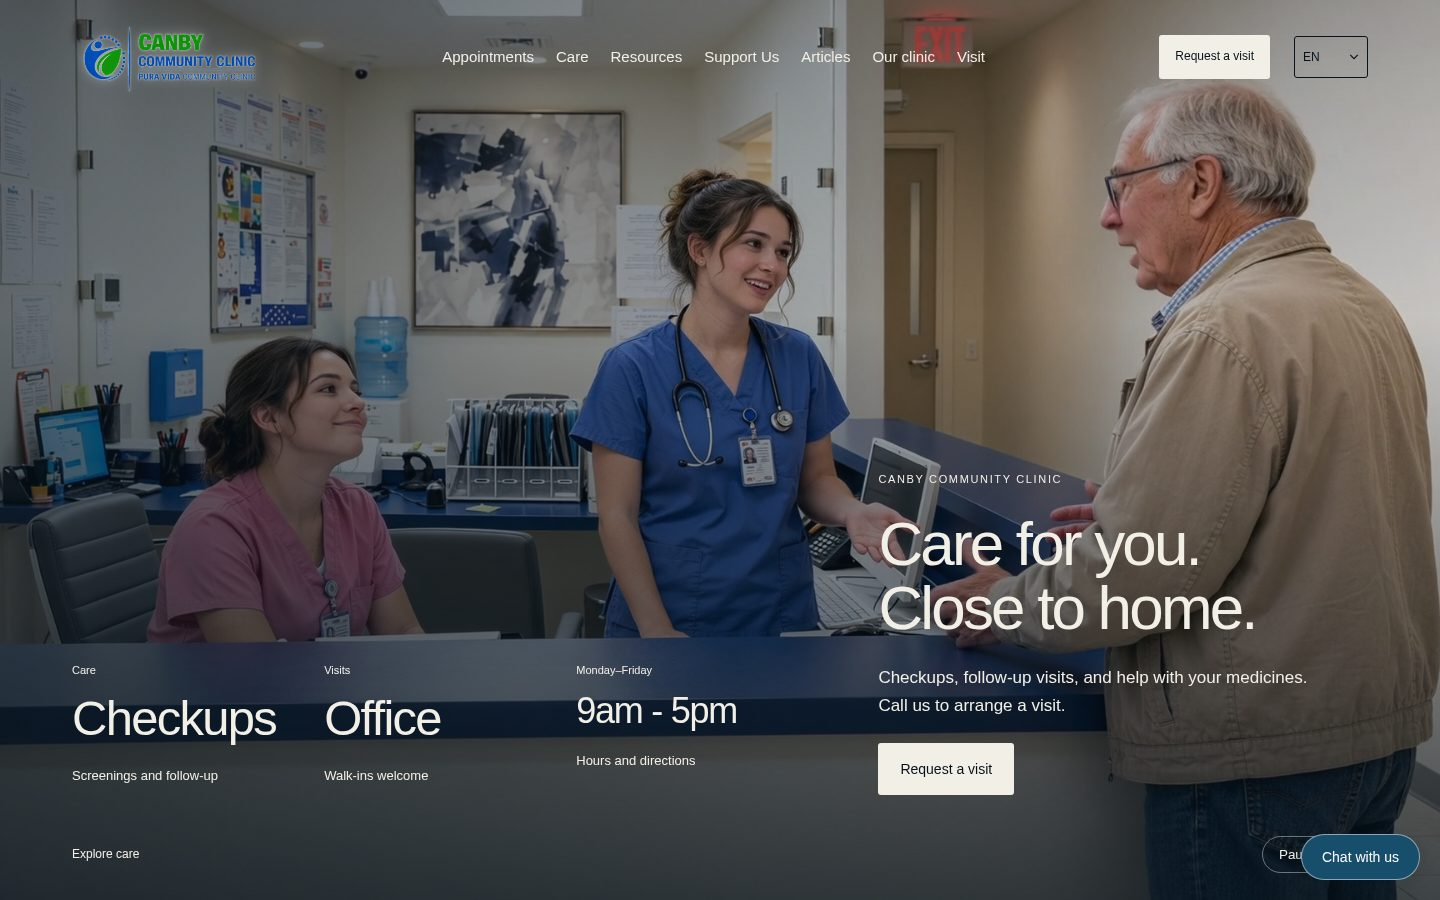
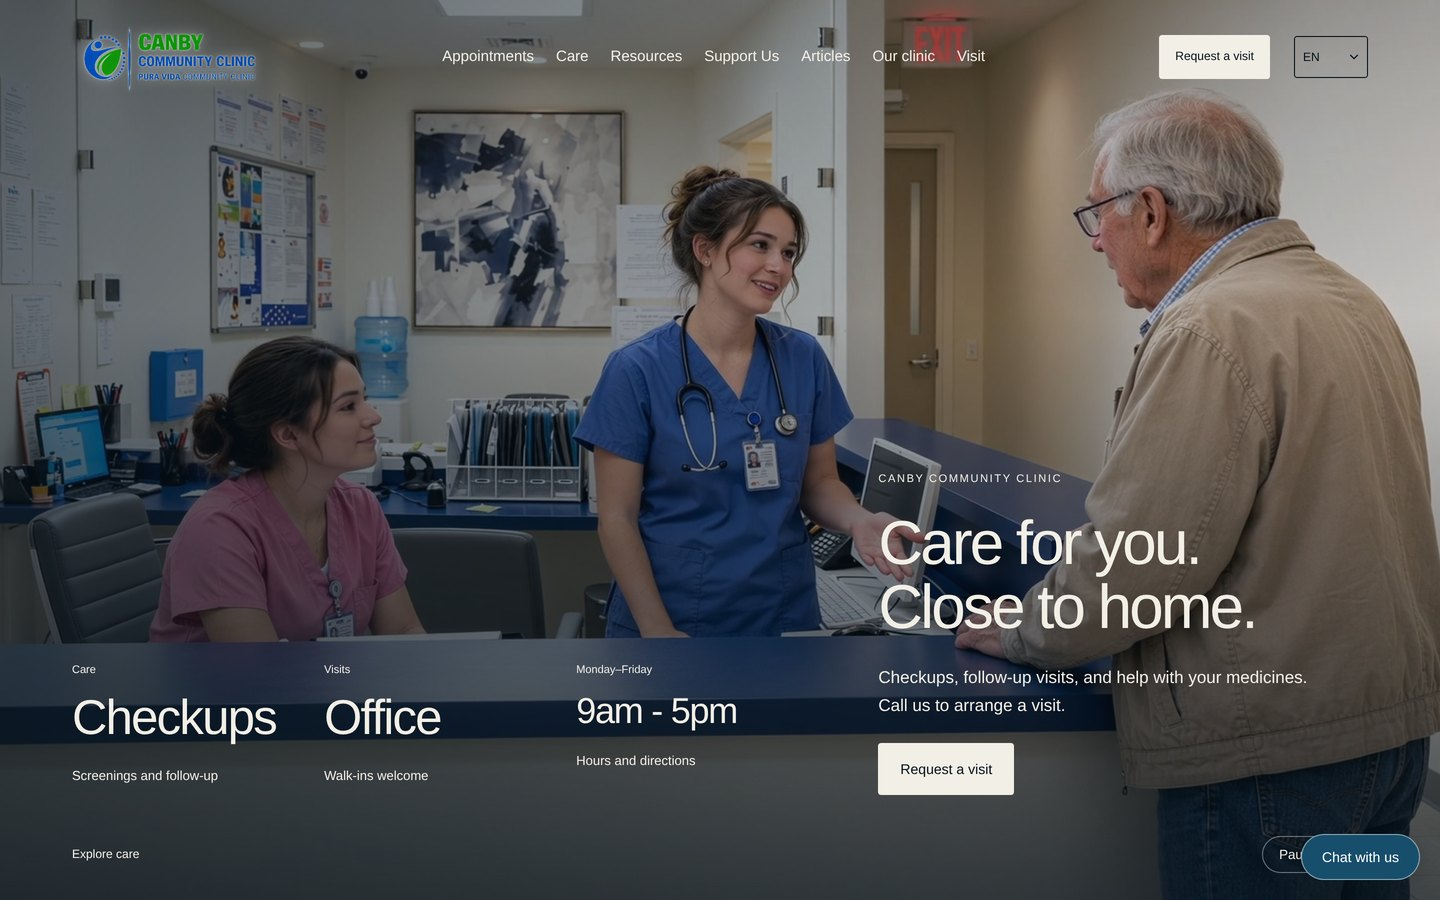
Sharpen the website showcase for retina screens.
The project cards were 1440-wide, so type went soft on a sharp display. Each site is recaptured at 2880 and only the active card loads that file.

diff --git a/src/content/projects.ts b/src/content/projects.ts
@@ -22,7 +22,7 @@ export const PROJECTS: Project[] = [
     year: "2026",
     href: "https://puravidacc.org",
     host: "puravidacc.org",
-    image: "/sites/canby.jpg?v=2",
+    image: "/sites/canby.jpg?v=3",
     detail: "/sites/canby-detail.jpg?v=2",
     note: "A patient site with the quiet of an early clinic.",
     tint: "#e7efe8",
@@ -36,7 +36,7 @@ export const PROJECTS: Project[] = [
     year: "2026",
     href: "https://citiumroofing.com",
     host: "citiumroofing.com",
-    image: "/sites/citium.jpg?v=2",
+    image: "/sites/citium.jpg?v=3",
     detail: "/sites/citium-detail.jpg?v=2",
     note: "A light, exact site for a roofing practice.",
     tint: "#ece7df",
@@ -50,7 +50,7 @@ export const PROJECTS: Project[] = [
     year: "2026",
     href: "https://extremequalityclean.com",
     host: "extremequalityclean.com",
-    image: "/sites/clean.jpg?v=2",
+    image: "/sites/clean.jpg?v=3",
     detail: "/sites/clean-detail.jpg?v=2",
     note: "Service branding as considered as the rooms it leaves behind.",
     tint: "#e5eee9",
@@ -64,7 +64,7 @@ export const PROJECTS: Project[] = [
     year: "2026",
     href: "https://myrarescore.com",
     host: "myrarescore.com",
-    image: "/sites/rarescore.jpg?v=2",
+    image: "/sites/rarescore.jpg?v=3",
     detail: "/sites/rarescore-detail.jpg?v=2",
     note: "A product instrument. Exact type, nothing past the mark.",
     tint: "#e6e9ef",
@@ -78,7 +78,7 @@ export const PROJECTS: Project[] = [
     year: "2026",
     href: "https://myplumbinginc.com",
     host: "myplumbinginc.com",
-    image: "/sites/plumbing.jpg?v=2",
+    image: "/sites/plumbing.jpg?v=3",
     detail: "/sites/plumbing-detail.jpg?v=2",
     note: "A high-contrast site for a working contractor.",
     tint: "#e6e8ef",
@@ -92,7 +92,7 @@ export const PROJECTS: Project[] = [
     year: "2026",
     href: "https://rooter-plumber.com",
     host: "rooter-plumber.com",
-    image: "/sites/rooter.jpg?v=2",
+    image: "/sites/rooter.jpg?v=3",
     detail: "/sites/rooter-detail.jpg?v=2",
     note: "A direct plumbing site, built to be called.",
     tint: "#f3e8e6",

diff --git a/src/components/coverflow-carousel.tsx b/src/components/coverflow-carousel.tsx
@@ -156,7 +156,19 @@ export function CoverflowCarousel({
               }
               }
             >
-              <img src={project.image} alt={`${project.name} website`} draggable={false} />
+              <img
+                src={project.image}
+                srcSet={
+                  delta === 0
+                    ? `${project.image} 1440w, ${project.image.replace(".jpg", "@2x.jpg")} 2880w`
+                    : undefined
+                }
+                sizes={delta === 0 ? "(max-width: 800px) 92vw, min(64vw, 900px)" : undefined}
+                alt={`${project.name} website`}
+                width={1440}
+                height={900}
+                draggable={false}
+              />
             </button>
           );
         })}
